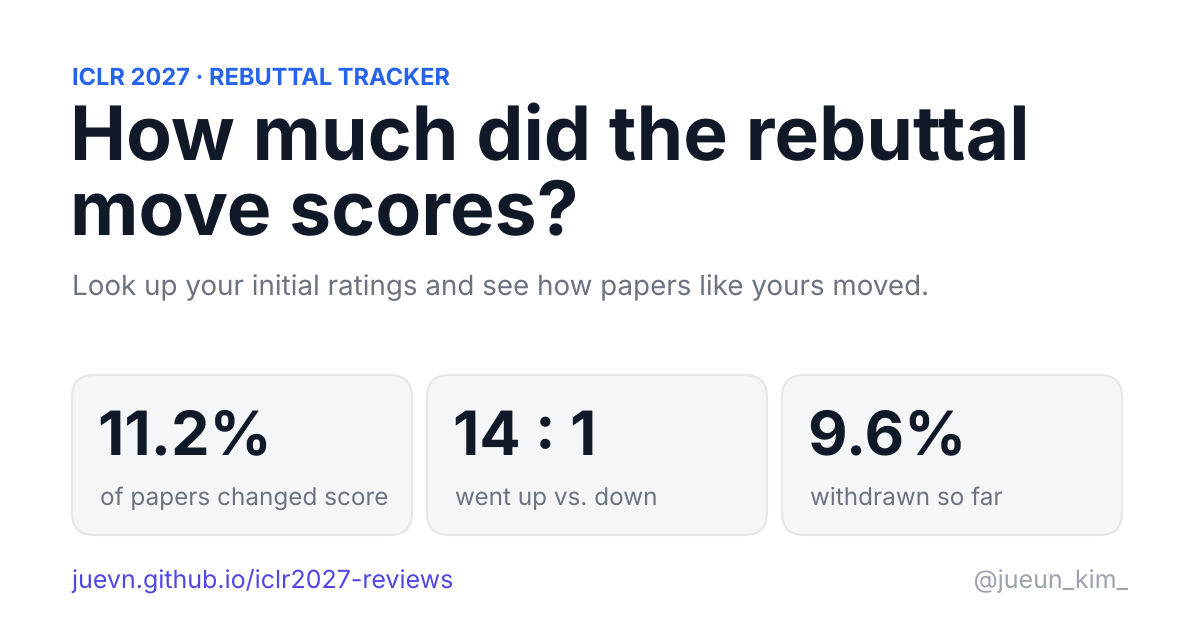
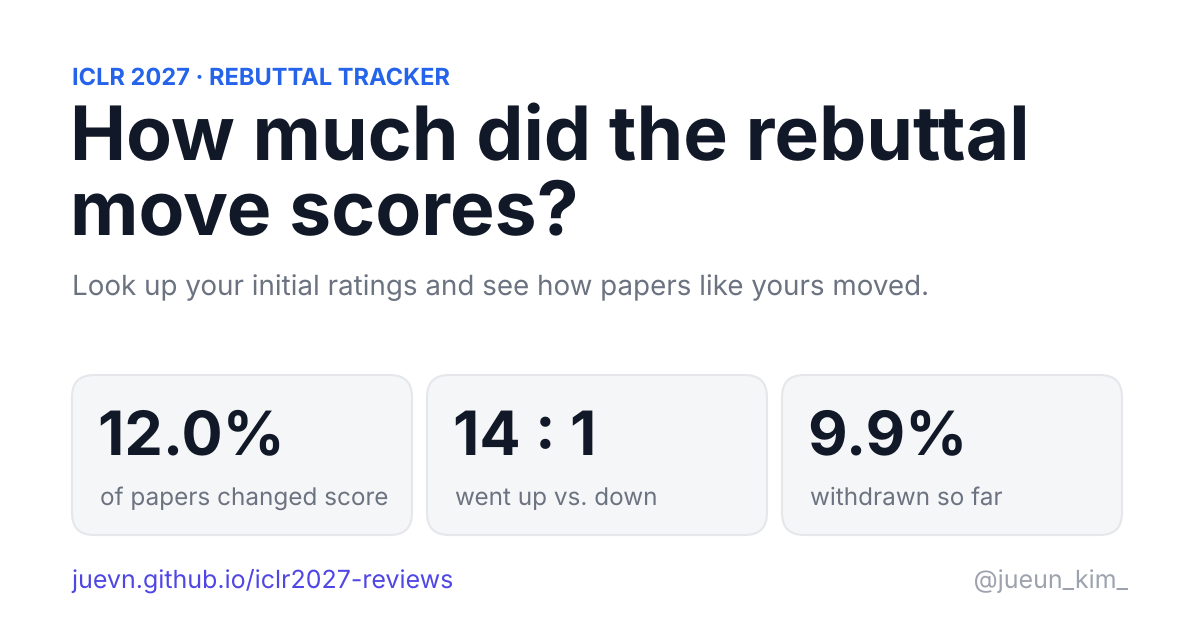
Update to 2026-11-17T03:11:24Z

Changed region(s): [[0.0925, 0.6333, 0.2467, 0.7238], [0.7092, 0.6635, 0.8017, 0.7238]]

diff --git a/data.js b/data.js
@@ -5,34 +5,34 @@ window.ICLR_DATA = {
   venue: "ICLR 2027",
   scale: [1,4],
   baseline: {"at":"2026-11-06T13:54:47Z","source":"https://shiqiangw.github.io/iclr-2027-scores/","by":"shiqiangw"},
-  updated: "2026-11-16T23:10:22Z",
+  updated: "2026-11-17T03:11:24Z",
   discussionEnds: "2026-11-18",
   decisions: "2026-12-16",
   combos: {
-    "1":[2,0,0,0,0,0,0,0],"2":[2,0,0,0,0,0,0,0],"11":[27,9,0,13,0,0,0,0],"21":[73,11,0,33,0,0,0,0],"22":[104,2,0,62,4,0,0,4],"31":[24,0,0,13,1,0,0,1],
+    "1":[2,0,0,0,0,0,0,0],"2":[2,0,0,0,0,0,0,0],"11":[27,9,0,13,0,0,0,0],"21":[73,12,0,32,0,0,0,0],"22":[104,2,0,62,4,0,0,4],"31":[24,0,0,13,1,0,0,1],
     "32":[75,0,0,34,4,1,0,3],"33":[20,0,0,15,0,0,0,0],"41":[1,0,0,1,0,0,0,0],"42":[5,0,0,3,1,0,0,1],"43":[2,0,0,1,0,0,0,0],"44":[1,0,0,1,0,0,0,0],
-    "111":[764,209,0,553,4,0,0,5],"211":[3062,751,1,2298,58,10,0,57],"221":[6602,1381,4,5198,300,26,0,330],"222":[7463,725,1,6718,638,30,4,696],"311":[651,106,1,539,19,17,1,0],"321":[3548,267,0,3270,348,36,2,376],
-    "322":[7667,79,2,7561,938,56,2,1003],"331":[675,3,0,669,93,7,0,107],"332":[3733,6,1,3712,627,38,3,633],"333":[773,0,0,769,74,1,0,82],"411":[30,2,0,28,3,1,0,2],"421":[215,5,1,209,26,4,0,22],
-    "422":[418,0,0,418,62,11,0,61],"431":[79,0,0,77,7,1,0,12],"432":[515,1,0,513,91,5,0,90],"433":[198,0,0,195,15,0,0,16],"441":[6,0,0,6,2,0,0,3],"442":[40,0,0,39,13,0,1,16],
-    "443":[28,0,0,28,1,0,0,1],"444":[2,0,0,2,0,0,0,0],"1111":[29,4,1,24,0,0,0,0],"2111":[107,26,0,79,1,0,0,1],"2211":[245,60,0,185,5,1,0,5],"2221":[428,69,0,353,22,1,0,26],
-    "2222":[455,59,1,394,46,0,1,49],"3111":[17,4,0,13,0,0,0,0],"3211":[111,13,0,97,4,3,0,2],"3221":[336,27,0,309,33,6,0,39],"3222":[565,24,0,538,88,1,0,98],"3311":[28,3,0,25,1,0,1,1],
-    "3321":[133,2,0,131,26,1,0,30],"3322":[435,2,0,426,83,8,0,91],"3331":[27,0,0,27,5,2,0,3],"3332":[156,0,0,155,39,0,0,41],"3333":[17,0,0,17,1,1,0,0],"4111":[1,0,0,1,0,0,0,0],
-    "4211":[8,0,0,8,1,0,0,2],"4221":[25,0,0,25,3,0,0,7],"4222":[40,0,0,40,8,0,0,9],"4311":[1,0,0,1,0,0,0,0],"4321":[28,0,0,28,0,2,0,-3],"4322":[51,0,0,51,11,1,0,11],
-    "4331":[8,0,0,8,1,0,0,1],"4332":[38,0,0,38,6,1,1,4],"4333":[7,0,0,7,0,0,0,0],"4421":[1,0,0,1,0,0,0,0],"4422":[3,0,0,3,1,0,0,1],"4431":[2,0,0,2,1,0,0,3],
+    "111":[764,211,0,551,4,0,0,5],"211":[3062,767,1,2282,62,12,0,59],"221":[6602,1416,4,5163,327,28,0,365],"222":[7463,753,1,6690,677,32,5,741],"311":[651,108,1,537,21,17,1,2],"321":[3548,272,0,3265,369,40,2,399],
+    "322":[7667,84,2,7556,1036,57,2,1127],"331":[675,3,0,669,97,6,1,112],"332":[3733,6,1,3712,660,42,3,664],"333":[773,0,0,769,78,1,0,85],"411":[30,2,0,28,3,1,0,2],"421":[215,5,1,209,27,4,0,23],
+    "422":[418,0,0,418,65,11,0,67],"431":[79,0,0,77,9,1,0,14],"432":[515,1,0,513,98,5,0,97],"433":[198,0,0,195,16,0,0,17],"441":[6,0,0,6,2,0,0,3],"442":[40,0,0,39,14,0,1,17],
+    "443":[28,0,0,28,1,0,0,1],"444":[2,0,0,2,0,0,0,0],"1111":[29,4,1,24,0,0,0,0],"2111":[107,26,0,79,1,0,0,1],"2211":[245,61,0,184,5,1,0,5],"2221":[428,72,0,350,24,1,0,28],
+    "2222":[455,60,1,393,50,0,1,54],"3111":[17,5,0,12,0,1,0,-1],"3211":[111,13,0,97,5,3,0,3],"3221":[336,27,0,309,35,6,0,42],"3222":[565,24,0,538,97,1,0,108],"3311":[28,3,0,25,1,0,1,1],
+    "3321":[133,2,0,131,26,1,0,32],"3322":[435,2,0,426,89,9,0,97],"3331":[27,0,0,27,5,2,0,3],"3332":[156,0,0,155,40,0,0,42],"3333":[17,0,0,17,1,1,0,0],"4111":[1,0,0,1,0,0,0,0],
+    "4211":[8,0,0,8,1,0,0,2],"4221":[25,0,0,25,4,0,0,8],"4222":[40,0,0,40,9,0,0,10],"4311":[1,0,0,1,0,0,0,0],"4321":[28,0,0,28,1,3,0,-4],"4322":[51,0,0,51,11,1,0,12],
+    "4331":[8,0,0,8,1,0,0,1],"4332":[38,0,0,38,7,1,1,5],"4333":[7,0,0,7,0,0,0,0],"4421":[1,0,0,1,0,0,0,0],"4422":[3,0,0,3,1,0,0,1],"4431":[2,0,0,2,1,0,0,3],
     "4432":[3,0,0,3,0,0,0,0],"4433":[4,0,0,4,0,0,0,0],"4443":[1,0,0,1,0,0,0,0],"11111":[4,1,0,3,0,0,0,0],"21111":[6,2,0,4,0,0,0,0],"22111":[14,4,0,10,0,0,0,0],
-    "22211":[22,4,0,18,0,0,0,0],"22221":[32,6,0,26,1,0,0,2],"22222":[19,2,0,17,2,0,0,2],"32111":[8,2,0,6,1,0,0,1],"32211":[21,4,0,17,2,3,0,0],"32221":[29,9,0,20,2,0,0,2],
-    "32222":[37,2,0,35,6,0,0,6],"33211":[2,0,0,2,0,1,0,-1],"33221":[27,0,0,27,7,0,0,12],"33222":[46,1,0,45,12,1,0,15],"33311":[2,0,0,2,0,0,0,0],"33321":[4,0,0,4,1,0,0,1],
-    "33322":[14,0,0,14,4,0,0,5],"33331":[2,0,0,2,0,0,0,0],"33332":[7,0,0,7,2,0,0,3],"33333":[2,0,0,2,0,0,0,0],"42221":[3,0,0,3,0,0,0,0],"42222":[1,0,0,1,0,0,0,0],
+    "22211":[22,4,0,18,0,0,0,0],"22221":[32,6,0,26,1,0,0,2],"22222":[19,2,0,17,2,0,0,2],"32111":[8,2,0,6,1,0,0,1],"32211":[21,4,0,17,2,2,1,1],"32221":[29,9,0,20,2,0,0,2],
+    "32222":[37,3,0,34,6,0,0,6],"33211":[2,0,0,2,0,1,0,-1],"33221":[27,0,0,27,7,0,0,12],"33222":[46,1,0,45,12,0,0,16],"33311":[2,0,0,2,0,0,0,0],"33321":[4,0,0,4,1,0,0,1],
+    "33322":[14,0,0,14,5,0,0,7],"33331":[2,0,0,2,0,0,0,0],"33332":[7,0,0,7,3,0,0,4],"33333":[2,0,0,2,0,0,0,0],"42221":[3,0,0,3,1,0,0,1],"42222":[1,0,0,1,0,0,0,0],
     "43211":[1,0,0,1,0,0,0,0],"43221":[1,0,0,1,0,0,0,0],"43222":[7,0,0,7,1,0,0,1],"43322":[2,0,0,2,1,0,0,1],"43331":[1,0,0,1,0,0,0,0],"43332":[4,0,0,4,1,0,0,2],
-    "43333":[1,0,0,1,0,0,0,0],"44311":[1,0,0,1,0,0,0,0],"44322":[3,0,0,3,0,0,0,0],"44332":[3,0,0,3,1,0,0,1],"211111":[1,1,0,0,0,0,0,0],"221111":[1,0,0,1,0,0,0,0],
+    "43333":[1,0,0,1,0,0,0,0],"44311":[1,0,0,1,0,0,0,0],"44322":[3,0,0,3,1,0,0,1],"44332":[3,0,0,3,1,0,0,1],"211111":[1,1,0,0,0,0,0,0],"221111":[1,0,0,1,0,0,0,0],
     "222211":[2,1,0,1,0,0,0,0],"222221":[2,1,0,1,0,0,0,0],"322211":[1,0,0,1,0,0,0,0],"322221":[1,0,0,1,0,0,0,0],"322222":[3,0,0,3,0,0,0,0],"332222":[2,0,0,2,0,1,0,-1],
     "333222":[1,0,0,1,0,0,0,0],"432211":[1,0,0,1,1,0,0,1],"433321":[1,0,0,1,0,0,0,0],"2222211":[1,0,0,1,0,0,0,0]
   },
   // Mean rating now -> number of papers still under review, for ranking a score against today's field.
-  currentMeans: {"n":36679,"h":{"1.00":609,"1.20":5,"1.25":84,"1.33":2295,"1.40":10,"1.50":244,"1.60":29,"1.67":5537,"1.71":1,"1.75":453,"1.80":43,"1.83":2,"2.00":10180,"2.17":4,"2.20":65,"2.25":681,"2.33":8321,"2.40":50,"2.50":589,"2.60":36,"2.67":4542,"2.75":269,"2.80":13,"3.00":2069,"3.20":6,"3.25":26,"3.33":427,"3.40":2,"3.50":6,"3.67":70,"3.75":2,"4.00":9}},
+  currentMeans: {"n":36578,"h":{"1.00":609,"1.20":5,"1.25":85,"1.33":2275,"1.40":10,"1.50":240,"1.60":28,"1.67":5479,"1.71":1,"1.75":447,"1.80":43,"1.83":2,"2.00":10097,"2.17":4,"2.20":62,"2.25":675,"2.33":8274,"2.40":52,"2.50":589,"2.60":35,"2.67":4589,"2.75":278,"2.80":12,"3.00":2117,"3.20":7,"3.25":28,"3.33":445,"3.40":2,"3.50":6,"3.67":71,"3.75":2,"4.00":9}},
   // Review-level moves. exact: the pairing of initial and current ratings is unique.
   // inferred: more than one pairing fits, smallest-change one used.
-  reviews: {"analyzed":112264,"modified":14168,"changed":4343,"exact":4041,"inferred":302,"initial":{"1":19042,"2":64493,"3":26857,"4":1872},"moves":{"2>3":2816,"1>2":513,"3>4":455,"2>1":149,"2>4":137,"3>2":120,"1>3":111,"4>3":13,"3>1":12,"1>4":11,"4>2":6}},
+  reviews: {"analyzed":111954,"modified":14647,"changed":4679,"exact":4345,"inferred":334,"initial":{"1":18951,"2":64288,"3":26843,"4":1872},"moves":{"2>3":3047,"1>2":545,"3>4":483,"2>1":156,"2>4":150,"3>2":129,"1>3":124,"4>3":14,"3>1":12,"1>4":12,"4>2":7}},
   // dest: initial ratings -> current ratings of the papers that changed (same number of reviews), with counts.
   dest: {
     "22":{"32":4},
@@ -40,67 +40,70 @@ window.ICLR_DATA = {
     "32":{"22":1,"33":4},
     "42":{"43":1},
     "111":{"211":3,"311":1},
-    "211":{"111":10,"221":39,"222":3,"311":12,"321":3,"422":1},
-    "221":{"211":26,"222":134,"321":120,"322":25,"331":9,"332":5,"333":1,"421":4,"422":1,"432":1},
-    "222":{"211":1,"221":29,"321":4,"322":555,"331":1,"332":62,"333":5,"422":13,"432":2},
-    "311":{"111":3,"211":14,"221":1,"321":17,"322":1,"411":1},
-    "321":{"211":1,"221":24,"222":2,"311":11,"322":176,"331":103,"332":29,"333":9,"421":20,"422":2,"431":4,"432":3,"433":2},
-    "322":{"211":1,"221":2,"222":27,"321":26,"331":2,"332":730,"333":79,"422":91,"431":1,"432":29,"433":7,"443":1},
-    "331":{"311":1,"321":6,"332":52,"333":17,"431":20,"432":3,"433":1},
-    "332":{"222":1,"321":3,"322":19,"331":15,"333":444,"422":1,"431":2,"432":137,"433":38,"441":1,"442":4,"443":3},
-    "333":{"332":1,"433":66,"443":7,"444":1},
+    "211":{"111":12,"221":42,"222":3,"311":13,"321":3,"422":1},
+    "221":{"211":28,"222":144,"321":128,"322":31,"331":11,"332":6,"333":1,"421":4,"422":1,"432":1},
+    "222":{"211":1,"221":31,"321":5,"322":588,"331":1,"332":66,"333":6,"422":13,"432":3},
+    "311":{"111":3,"211":14,"221":1,"321":19,"322":1,"411":1},
+    "321":{"211":1,"221":28,"222":2,"311":11,"322":185,"331":108,"332":33,"333":9,"421":22,"422":2,"431":4,"432":4,"433":2},
+    "322":{"211":1,"221":2,"222":28,"321":26,"331":2,"332":792,"333":95,"422":103,"431":1,"432":34,"433":10,"443":1},
+    "331":{"311":1,"321":5,"332":55,"333":17,"421":1,"431":21,"432":3,"433":1},
+    "332":{"222":1,"321":3,"322":22,"331":16,"333":468,"422":1,"431":2,"432":144,"433":40,"441":1,"442":4,"443":3},
+    "333":{"332":1,"433":71,"443":6,"444":1},
     "411":{"211":1,"421":2,"422":1},
-    "421":{"221":1,"321":3,"422":17,"431":8,"432":1},
-    "422":{"222":1,"322":5,"421":5,"432":52,"433":7,"442":2,"443":1},
-    "431":{"331":1,"432":1,"433":4,"441":1,"443":1},
-    "432":{"322":1,"422":1,"431":3,"433":67,"442":19,"443":5},
-    "433":{"443":14,"444":1},
+    "421":{"221":1,"321":3,"422":17,"431":9,"432":1},
+    "422":{"222":1,"322":6,"421":4,"432":52,"433":10,"442":2,"443":1},
+    "431":{"331":1,"432":2,"433":4,"441":2,"443":1},
+    "432":{"322":1,"422":1,"431":3,"433":74,"442":19,"443":5},
+    "433":{"443":15,"444":1},
     "441":{"442":1,"443":1},
-    "442":{"433":1,"443":10,"444":3},
+    "442":{"433":1,"443":11,"444":3},
     "443":{"444":1},
     "2111":{"2211":1},
     "2211":{"2111":1,"2221":2,"2222":1,"3211":2},
-    "2221":{"2211":1,"2222":7,"3221":11,"3321":3,"4222":1},
-    "2222":{"3221":1,"3222":43,"3322":1,"4222":2},
-    "3211":{"2211":3,"3221":3,"3321":1},
-    "3221":{"2221":4,"3211":2,"3222":10,"3321":12,"3322":6,"3331":2,"3332":1,"4321":2},
-    "3222":{"3221":1,"3322":70,"3332":6,"4222":8,"4322":3,"4332":1},
+    "2221":{"2211":1,"2222":7,"3221":13,"3321":3,"4222":1},
+    "2222":{"3221":1,"3222":46,"3322":2,"4222":2},
+    "3111":{"2111":1},
+    "3211":{"2211":3,"3221":4,"3321":1},
+    "3221":{"2221":4,"3211":2,"3222":10,"3321":13,"3322":7,"3331":2,"3332":1,"4321":2},
+    "3222":{"3221":1,"3322":77,"3332":7,"4222":9,"4322":3,"4332":1},
     "3311":{"3221":1,"4311":1},
-    "3321":{"3221":1,"3322":12,"3331":9,"3332":1,"3333":1,"4321":2,"4332":1},
-    "3322":{"3222":7,"3321":1,"3332":55,"3333":9,"4322":14,"4332":2,"4333":2,"4422":1},
+    "3321":{"3221":1,"3322":12,"3331":8,"3332":1,"3333":2,"4321":2,"4332":1},
+    "3322":{"3222":7,"3321":2,"3332":60,"3333":9,"4322":14,"4332":3,"4333":2,"4422":1},
     "3331":{"3311":1,"3321":1,"3332":4,"4332":1},
-    "3332":{"3333":29,"4332":8,"4333":2},
+    "3332":{"3333":30,"4332":8,"4333":2},
     "3333":{"3332":1,"4333":1},
     "4211":{"4321":1},
-    "4221":{"4222":1,"4422":1,"4431":1},
-    "4222":{"4322":7,"4332":1},
-    "4321":{"3221":1,"3321":1},
-    "4322":{"3322":1,"4332":9,"4333":1,"4422":1},
+    "4221":{"4222":1,"4321":1,"4422":1,"4431":1},
+    "4222":{"4322":8,"4332":1},
+    "4321":{"3221":2,"3321":1,"4322":1},
+    "4322":{"3322":1,"4332":8,"4333":2,"4422":1},
     "4331":{"4431":1},
-    "4332":{"3322":1,"3333":1,"4333":6},
+    "4332":{"3322":1,"3333":1,"4333":7},
     "4422":{"4432":1},
     "4431":{"4443":1},
     "22221":{"42221":1},
     "22222":{"32222":2},
     "32111":{"32211":1},
-    "32211":{"22211":3,"32221":1,"33221":1},
+    "32211":{"22211":2,"22221":1,"32221":1,"33221":1},
     "32221":{"32222":1,"33221":1},
     "32222":{"33222":6},
     "33211":{"33111":1},
     "33221":{"33222":2,"33321":3,"33331":1,"44431":1},
-    "33222":{"33221":1,"33322":9,"33332":1,"43222":1,"43333":1},
+    "33222":{"33322":9,"33332":1,"43222":1,"43333":1},
     "33321":{"33322":1},
-    "33322":{"33332":2,"33333":1,"43322":1},
-    "33332":{"33333":1,"43333":1},
+    "33322":{"33332":3,"33333":1,"43332":1},
+    "33332":{"33333":2,"43333":1},
+    "42221":{"42222":1},
     "43222":{"43322":1},
     "43322":{"43332":1},
     "43332":{"44432":1},
+    "44322":{"44332":1},
     "44332":{"44432":1},
     "332222":{"332221":1},
     "432211":{"432221":1}
   },
   // moveTimes: changed reviews per move, by 3-hour UTC bucket of the review's last edit (a later text-only edit moves it).
-  moveTimes: {"2>3":{"2026-11-06T15":1,"2026-11-06T18":1,"2026-11-07T03":1,"2026-11-07T18":1,"2026-11-08T03":1,"2026-11-08T12":1,"2026-11-08T15":1,"2026-11-09T03":2,"2026-11-09T15":2,"2026-11-09T18":1,"2026-11-09T21":2,"2026-11-10T03":1,"2026-11-10T06":3,"2026-11-10T09":1,"2026-11-10T12":1,"2026-11-10T18":3,"2026-11-10T21":2,"2026-11-11T00":4,"2026-11-11T03":1,"2026-11-11T06":3,"2026-11-11T09":6,"2026-11-11T12":2,"2026-11-11T15":4,"2026-11-11T18":3,"2026-11-11T21":2,"2026-11-12T00":8,"2026-11-12T03":9,"2026-11-12T06":10,"2026-11-12T09":9,"2026-11-12T12":9,"2026-11-12T15":13,"2026-11-12T18":9,"2026-11-12T21":5,"2026-11-13T00":7,"2026-11-13T03":22,"2026-11-13T06":24,"2026-11-13T09":31,"2026-11-13T12":17,"2026-11-13T15":18,"2026-11-13T18":27,"2026-11-13T21":30,"2026-11-14T00":15,"2026-11-14T03":85,"2026-11-14T06":134,"2026-11-14T09":64,"2026-11-14T12":78,"2026-11-14T15":60,"2026-11-14T18":44,"2026-11-14T21":35,"2026-11-15T00":59,"2026-11-15T03":64,"2026-11-15T06":109,"2026-11-15T09":89,"2026-11-15T12":88,"2026-11-15T15":96,"2026-11-15T18":41,"2026-11-15T21":46,"2026-11-16T00":122,"2026-11-16T03":198,"2026-11-16T06":251,"2026-11-16T09":216,"2026-11-16T12":223,"2026-11-16T15":198,"2026-11-16T18":127,"2026-11-16T21":76},"1>2":{"2026-11-07T12":1,"2026-11-07T15":1,"2026-11-07T18":1,"2026-11-08T00":1,"2026-11-08T06":1,"2026-11-08T18":1,"2026-11-09T00":1,"2026-11-09T03":1,"2026-11-09T06":2,"2026-11-10T00":1,"2026-11-10T12":4,"2026-11-10T15":1,"2026-11-10T18":2,"2026-11-11T00":1,"2026-11-11T03":1,"2026-11-11T06":1,"2026-11-11T12":1,"2026-11-11T18":2,"2026-11-11T21":1,"2026-11-12T03":2,"2026-11-12T06":2,"2026-11-12T09":1,"2026-11-12T12":4,"2026-11-12T15":2,"2026-11-12T18":1,"2026-11-12T21":2,"2026-11-13T00":1,"2026-11-13T03":8,"2026-11-13T06":5,"2026-11-13T09":7,"2026-11-13T12":6,"2026-11-13T15":5,"2026-11-13T18":5,"2026-11-13T21":5,"2026-11-14T00":3,"2026-11-14T03":21,"2026-11-14T06":15,"2026-11-14T09":21,"2026-11-14T12":14,"2026-11-14T15":13,"2026-11-14T18":12,"2026-11-14T21":4,"2026-11-15T00":8,"2026-11-15T03":14,"2026-11-15T06":10,"2026-11-15T09":17,"2026-11-15T12":14,"2026-11-15T15":11,"2026-11-15T18":14,"2026-11-15T21":11,"2026-11-16T00":19,"2026-11-16T03":27,"2026-11-16T06":29,"2026-11-16T09":31,"2026-11-16T12":43,"2026-11-16T15":35,"2026-11-16T18":32,"2026-11-16T21":14},"3>4":{"2026-11-06T15":1,"2026-11-07T21":1,"2026-11-08T12":1,"2026-11-08T21":1,"2026-11-09T06":1,"2026-11-09T09":1,"2026-11-09T12":1,"2026-11-10T03":1,"2026-11-10T06":1,"2026-11-10T09":1,"2026-11-10T12":2,"2026-11-11T12":2,"2026-11-11T15":1,"2026-11-11T18":1,"2026-11-11T21":2,"2026-11-12T03":1,"2026-11-12T06":1,"2026-11-12T12":3,"2026-11-12T15":2,"2026-11-12T18":3,"2026-11-12T21":4,"2026-11-13T00":1,"2026-11-13T03":5,"2026-11-13T06":10,"2026-11-13T09":7,"2026-11-13T12":5,"2026-11-13T15":3,"2026-11-13T18":3,"2026-11-13T21":6,"2026-11-14T00":4,"2026-11-14T03":15,"2026-11-14T06":17,"2026-11-14T09":9,"2026-11-14T12":21,"2026-11-14T15":9,"2026-11-14T18":8,"2026-11-14T21":2,"2026-11-15T00":8,"2026-11-15T03":11,"2026-11-15T06":13,"2026-11-15T09":16,"2026-11-15T12":18,"2026-11-15T15":11,"2026-11-15T18":10,"2026-11-15T21":4,"2026-11-16T00":23,"2026-11-16T03":30,"2026-11-16T06":33,"2026-11-16T09":32,"2026-11-16T12":28,"2026-11-16T15":22,"2026-11-16T18":26,"2026-11-16T21":13},"2>1":{"2026-11-06T12":2,"2026-11-06T15":3,"2026-11-06T18":2,"2026-11-07T00":1,"2026-11-07T03":4,"2026-11-07T06":2,"2026-11-07T09":1,"2026-11-07T12":1,"2026-11-08T15":1,"2026-11-09T03":1,"2026-11-09T06":1,"2026-11-09T09":1,"2026-11-09T18":1,"2026-11-10T18":3,"2026-11-11T09":1,"2026-11-11T12":1,"2026-11-12T00":1,"2026-11-12T03":2,"2026-11-12T12":3,"2026-11-12T15":2,"2026-11-13T03":1,"2026-11-13T06":3,"2026-11-13T09":3,"2026-11-13T15":2,"2026-11-13T21":3,"2026-11-14T03":9,"2026-11-14T06":6,"2026-11-14T09":4,"2026-11-14T12":1,"2026-11-14T15":5,"2026-11-14T18":4,"2026-11-15T00":1,"2026-11-15T03":1,"2026-11-15T06":7,"2026-11-15T09":5,"2026-11-15T12":3,"2026-11-15T15":4,"2026-11-15T18":5,"2026-11-16T00":4,"2026-11-16T03":9,"2026-11-16T06":9,"2026-11-16T09":3,"2026-11-16T12":7,"2026-11-16T15":5,"2026-11-16T18":10,"2026-11-16T21":1},"2>4":{"2026-11-07T03":4,"2026-11-08T15":1,"2026-11-09T09":1,"2026-11-10T09":2,"2026-11-10T18":1,"2026-11-11T09":1,"2026-11-12T03":1,"2026-11-12T12":2,"2026-11-12T15":2,"2026-11-12T18":1,"2026-11-13T03":3,"2026-11-13T09":3,"2026-11-13T12":2,"2026-11-13T15":3,"2026-11-13T18":1,"2026-11-13T21":3,"2026-11-14T00":2,"2026-11-14T03":4,"2026-11-14T06":9,"2026-11-14T09":1,"2026-11-14T12":1,"2026-11-14T15":9,"2026-11-14T18":3,"2026-11-14T21":2,"2026-11-15T00":3,"2026-11-15T03":5,"2026-11-15T06":4,"2026-11-15T09":5,"2026-11-15T12":4,"2026-11-15T15":1,"2026-11-15T18":3,"2026-11-15T21":2,"2026-11-16T00":4,"2026-11-16T03":4,"2026-11-16T06":9,"2026-11-16T09":6,"2026-11-16T12":6,"2026-11-16T15":7,"2026-11-16T18":8,"2026-11-16T21":4},"3>2":{"2026-11-06T12":2,"2026-11-06T15":3,"2026-11-06T18":2,"2026-11-06T21":1,"2026-11-07T00":1,"2026-11-07T03":4,"2026-11-07T06":2,"2026-11-07T09":1,"2026-11-08T03":1,"2026-11-08T15":1,"2026-11-09T03":1,"2026-11-09T06":1,"2026-11-09T15":1,"2026-11-10T06":1,"2026-11-11T09":1,"2026-11-11T12":2,"2026-11-12T00":2,"2026-11-12T03":1,"2026-11-12T09":2,"2026-11-13T03":2,"2026-11-13T06":2,"2026-11-13T09":2,"2026-11-13T18":1,"2026-11-14T03":4,"2026-11-14T06":6,"2026-11-14T09":2,"2026-11-14T12":2,"2026-11-14T15":3,"2026-11-14T18":4,"2026-11-15T00":1,"2026-11-15T03":3,"2026-11-15T06":5,"2026-11-15T09":3,"2026-11-15T12":2,"2026-11-15T15":4,"2026-11-15T18":2,"2026-11-16T00":4,"2026-11-16T03":6,"2026-11-16T06":11,"2026-11-16T09":1,"2026-11-16T12":5,"2026-11-16T15":5,"2026-11-16T18":5,"2026-11-16T21":5},"1>3":{"2026-11-07T03":1,"2026-11-12T00":1,"2026-11-12T03":1,"2026-11-12T06":1,"2026-11-12T15":2,"2026-11-12T18":3,"2026-11-12T21":1,"2026-11-13T00":1,"2026-11-13T03":1,"2026-11-13T06":1,"2026-11-13T09":2,"2026-11-13T12":3,"2026-11-13T15":2,"2026-11-13T18":2,"2026-11-13T21":3,"2026-11-14T03":1,"2026-11-14T06":7,"2026-11-14T09":2,"2026-11-14T15":6,"2026-11-14T18":6,"2026-11-14T21":1,"2026-11-15T00":5,"2026-11-15T06":3,"2026-11-15T09":2,"2026-11-15T12":4,"2026-11-15T15":3,"2026-11-15T18":4,"2026-11-15T21":6,"2026-11-16T00":2,"2026-11-16T03":5,"2026-11-16T06":7,"2026-11-16T09":2,"2026-11-16T12":6,"2026-11-16T15":4,"2026-11-16T18":5,"2026-11-16T21":5},"4>3":{"2026-11-06T12":2,"2026-11-07T15":1,"2026-11-11T06":1,"2026-11-11T12":1,"2026-11-13T06":1,"2026-11-13T09":1,"2026-11-14T06":1,"2026-11-14T18":1,"2026-11-15T21":1,"2026-11-16T00":1,"2026-11-16T06":1,"2026-11-16T15":1},"3>1":{"2026-11-07T03":1,"2026-11-08T09":1,"2026-11-11T00":1,"2026-11-14T03":1,"2026-11-14T06":1,"2026-11-15T09":1,"2026-11-15T21":1,"2026-11-16T00":1,"2026-11-16T06":2,"2026-11-16T15":2},"1>4":{"2026-11-13T09":1,"2026-11-13T15":1,"2026-11-14T06":1,"2026-11-15T00":1,"2026-11-15T12":2,"2026-11-16T09":2,"2026-11-16T15":2,"2026-11-16T18":1},"4>2":{"2026-11-06T12":1,"2026-11-13T06":1,"2026-11-14T06":1,"2026-11-16T12":2,"2026-11-16T15":1}},
+  moveTimes: {"2>3":{"2026-11-06T15":1,"2026-11-06T18":1,"2026-11-07T03":1,"2026-11-07T18":1,"2026-11-08T03":1,"2026-11-08T12":1,"2026-11-08T15":1,"2026-11-09T03":2,"2026-11-09T15":2,"2026-11-09T18":1,"2026-11-09T21":2,"2026-11-10T03":1,"2026-11-10T06":3,"2026-11-10T09":1,"2026-11-10T12":1,"2026-11-10T18":3,"2026-11-10T21":2,"2026-11-11T00":4,"2026-11-11T03":1,"2026-11-11T06":3,"2026-11-11T09":6,"2026-11-11T12":2,"2026-11-11T15":4,"2026-11-11T18":3,"2026-11-11T21":2,"2026-11-12T00":8,"2026-11-12T03":9,"2026-11-12T06":10,"2026-11-12T09":9,"2026-11-12T12":9,"2026-11-12T15":13,"2026-11-12T18":9,"2026-11-12T21":5,"2026-11-13T00":7,"2026-11-13T03":22,"2026-11-13T06":24,"2026-11-13T09":31,"2026-11-13T12":17,"2026-11-13T15":18,"2026-11-13T18":26,"2026-11-13T21":30,"2026-11-14T00":15,"2026-11-14T03":85,"2026-11-14T06":134,"2026-11-14T09":64,"2026-11-14T12":77,"2026-11-14T15":60,"2026-11-14T18":44,"2026-11-14T21":35,"2026-11-15T00":59,"2026-11-15T03":65,"2026-11-15T06":109,"2026-11-15T09":89,"2026-11-15T12":88,"2026-11-15T15":96,"2026-11-15T18":40,"2026-11-15T21":44,"2026-11-16T00":124,"2026-11-16T03":199,"2026-11-16T06":249,"2026-11-16T09":214,"2026-11-16T12":223,"2026-11-16T15":197,"2026-11-16T18":126,"2026-11-16T21":99,"2026-11-17T00":195,"2026-11-17T03":20},"1>2":{"2026-11-07T12":1,"2026-11-07T15":1,"2026-11-07T18":1,"2026-11-08T00":1,"2026-11-08T06":1,"2026-11-08T18":1,"2026-11-09T00":1,"2026-11-09T03":1,"2026-11-09T06":2,"2026-11-10T00":1,"2026-11-10T12":4,"2026-11-10T15":1,"2026-11-10T18":2,"2026-11-11T00":1,"2026-11-11T03":1,"2026-11-11T06":1,"2026-11-11T12":1,"2026-11-11T18":2,"2026-11-11T21":1,"2026-11-12T03":2,"2026-11-12T06":2,"2026-11-12T09":1,"2026-11-12T12":4,"2026-11-12T15":2,"2026-11-12T18":1,"2026-11-12T21":2,"2026-11-13T00":1,"2026-11-13T03":8,"2026-11-13T06":5,"2026-11-13T09":7,"2026-11-13T12":6,"2026-11-13T15":5,"2026-11-13T18":5,"2026-11-13T21":5,"2026-11-14T00":3,"2026-11-14T03":21,"2026-11-14T06":15,"2026-11-14T09":21,"2026-11-14T12":13,"2026-11-14T15":13,"2026-11-14T18":12,"2026-11-14T21":4,"2026-11-15T00":8,"2026-11-15T03":12,"2026-11-15T06":10,"2026-11-15T09":17,"2026-11-15T12":14,"2026-11-15T15":11,"2026-11-15T18":14,"2026-11-15T21":11,"2026-11-16T00":18,"2026-11-16T03":27,"2026-11-16T06":29,"2026-11-16T09":32,"2026-11-16T12":43,"2026-11-16T15":35,"2026-11-16T18":31,"2026-11-16T21":20,"2026-11-17T00":27,"2026-11-17T03":3},"3>4":{"2026-11-06T15":1,"2026-11-07T21":1,"2026-11-08T12":1,"2026-11-08T21":1,"2026-11-09T06":1,"2026-11-09T09":1,"2026-11-09T12":1,"2026-11-10T03":1,"2026-11-10T06":1,"2026-11-10T09":1,"2026-11-10T12":2,"2026-11-11T12":2,"2026-11-11T15":1,"2026-11-11T18":1,"2026-11-11T21":2,"2026-11-12T03":1,"2026-11-12T06":1,"2026-11-12T12":3,"2026-11-12T15":2,"2026-11-12T18":3,"2026-11-12T21":4,"2026-11-13T00":1,"2026-11-13T03":5,"2026-11-13T06":10,"2026-11-13T09":7,"2026-11-13T12":5,"2026-11-13T15":3,"2026-11-13T18":3,"2026-11-13T21":6,"2026-11-14T00":4,"2026-11-14T03":15,"2026-11-14T06":17,"2026-11-14T09":9,"2026-11-14T12":21,"2026-11-14T15":9,"2026-11-14T18":8,"2026-11-14T21":2,"2026-11-15T00":8,"2026-11-15T03":11,"2026-11-15T06":12,"2026-11-15T09":16,"2026-11-15T12":18,"2026-11-15T15":11,"2026-11-15T18":10,"2026-11-15T21":4,"2026-11-16T00":23,"2026-11-16T03":30,"2026-11-16T06":31,"2026-11-16T09":32,"2026-11-16T12":26,"2026-11-16T15":22,"2026-11-16T18":26,"2026-11-16T21":15,"2026-11-17T00":29,"2026-11-17T03":2},"2>1":{"2026-11-06T12":2,"2026-11-06T15":3,"2026-11-06T18":2,"2026-11-07T00":1,"2026-11-07T03":4,"2026-11-07T06":2,"2026-11-07T09":1,"2026-11-07T12":1,"2026-11-08T15":1,"2026-11-09T03":1,"2026-11-09T06":1,"2026-11-09T09":1,"2026-11-09T18":1,"2026-11-10T18":3,"2026-11-11T09":1,"2026-11-11T12":1,"2026-11-12T00":1,"2026-11-12T03":2,"2026-11-12T12":3,"2026-11-12T15":1,"2026-11-13T03":1,"2026-11-13T06":3,"2026-11-13T09":3,"2026-11-13T15":2,"2026-11-13T21":3,"2026-11-14T03":9,"2026-11-14T06":6,"2026-11-14T09":4,"2026-11-14T12":1,"2026-11-14T15":5,"2026-11-14T18":4,"2026-11-15T00":1,"2026-11-15T03":1,"2026-11-15T06":7,"2026-11-15T09":3,"2026-11-15T12":3,"2026-11-15T15":4,"2026-11-15T18":5,"2026-11-16T00":3,"2026-11-16T03":9,"2026-11-16T06":9,"2026-11-16T09":3,"2026-11-16T12":6,"2026-11-16T15":5,"2026-11-16T18":10,"2026-11-16T21":1,"2026-11-17T00":10,"2026-11-17T03":2},"2>4":{"2026-11-07T03":4,"2026-11-08T15":1,"2026-11-09T09":1,"2026-11-10T09":2,"2026-11-10T18":1,"2026-11-11T09":1,"2026-11-12T03":1,"2026-11-12T12":2,"2026-11-12T15":2,"2026-11-12T18":1,"2026-11-13T03":3,"2026-11-13T09":3,"2026-11-13T12":2,"2026-11-13T15":3,"2026-11-13T18":1,"2026-11-13T21":3,"2026-11-14T00":2,"2026-11-14T03":4,"2026-11-14T06":9,"2026-11-14T09":1,"2026-11-14T12":1,"2026-11-14T15":9,"2026-11-14T18":3,"2026-11-14T21":2,"2026-11-15T00":3,"2026-11-15T03":5,"2026-11-15T06":5,"2026-11-15T09":5,"2026-11-15T12":4,"2026-11-15T15":1,"2026-11-15T18":3,"2026-11-15T21":2,"2026-11-16T00":4,"2026-11-16T03":4,"2026-11-16T06":10,"2026-11-16T09":6,"2026-11-16T12":8,"2026-11-16T15":7,"2026-11-16T18":8,"2026-11-16T21":5,"2026-11-17T00":8},"3>2":{"2026-11-06T12":2,"2026-11-06T15":3,"2026-11-06T18":2,"2026-11-06T21":1,"2026-11-07T00":1,"2026-11-07T03":4,"2026-11-07T06":1,"2026-11-07T09":1,"2026-11-08T03":1,"2026-11-08T15":1,"2026-11-09T03":1,"2026-11-09T06":1,"2026-11-09T15":1,"2026-11-10T06":1,"2026-11-11T09":1,"2026-11-11T12":2,"2026-11-12T00":2,"2026-11-12T03":1,"2026-11-12T09":2,"2026-11-13T03":2,"2026-11-13T06":2,"2026-11-13T09":2,"2026-11-13T18":1,"2026-11-14T03":4,"2026-11-14T06":6,"2026-11-14T09":2,"2026-11-14T12":2,"2026-11-14T15":3,"2026-11-14T18":4,"2026-11-15T00":1,"2026-11-15T03":3,"2026-11-15T06":5,"2026-11-15T09":3,"2026-11-15T12":1,"2026-11-15T15":4,"2026-11-15T18":2,"2026-11-16T00":4,"2026-11-16T03":6,"2026-11-16T06":10,"2026-11-16T09":1,"2026-11-16T12":5,"2026-11-16T15":5,"2026-11-16T18":5,"2026-11-16T21":5,"2026-11-17T00":12},"1>3":{"2026-11-07T03":1,"2026-11-12T00":1,"2026-11-12T03":1,"2026-11-12T06":1,"2026-11-12T15":2,"2026-11-12T18":3,"2026-11-12T21":1,"2026-11-13T00":1,"2026-11-13T03":1,"2026-11-13T06":1,"2026-11-13T09":2,"2026-11-13T12":3,"2026-11-13T15":2,"2026-11-13T18":2,"2026-11-13T21":3,"2026-11-14T03":1,"2026-11-14T06":7,"2026-11-14T09":2,"2026-11-14T15":6,"2026-11-14T18":6,"2026-11-14T21":1,"2026-11-15T00":5,"2026-11-15T06":4,"2026-11-15T09":2,"2026-11-15T12":4,"2026-11-15T15":3,"2026-11-15T18":5,"2026-11-15T21":7,"2026-11-16T00":2,"2026-11-16T03":5,"2026-11-16T06":8,"2026-11-16T09":3,"2026-11-16T12":6,"2026-11-16T15":4,"2026-11-16T18":5,"2026-11-16T21":5,"2026-11-17T00":7,"2026-11-17T03":1},"4>3":{"2026-11-06T12":2,"2026-11-07T15":1,"2026-11-11T06":1,"2026-11-11T12":1,"2026-11-13T06":1,"2026-11-13T09":1,"2026-11-14T06":1,"2026-11-14T18":1,"2026-11-15T21":1,"2026-11-16T00":1,"2026-11-16T06":1,"2026-11-16T15":1,"2026-11-17T00":1},"3>1":{"2026-11-07T03":1,"2026-11-08T09":1,"2026-11-11T00":1,"2026-11-14T03":1,"2026-11-14T06":1,"2026-11-15T09":1,"2026-11-15T21":1,"2026-11-16T00":1,"2026-11-16T06":2,"2026-11-16T15":2},"1>4":{"2026-11-13T09":1,"2026-11-13T15":1,"2026-11-14T06":1,"2026-11-15T00":1,"2026-11-15T12":2,"2026-11-16T09":2,"2026-11-16T15":2,"2026-11-16T18":1,"2026-11-17T00":1},"4>2":{"2026-11-06T12":1,"2026-11-13T06":1,"2026-11-14T06":1,"2026-11-16T12":2,"2026-11-16T15":1,"2026-11-17T00":1}},
   // One row per update: papers still active with the same number of reviews, and how many moved.
   timeline: [
     {"at":"2026-11-06T13:54:47Z","sc":40458,"up":0,"down":0,"mixed":0,"withdrawn":0},
@@ -110,6 +113,7 @@ window.ICLR_DATA = {
     {"at":"2026-11-16T14:59:02Z","sc":36429,"up":3250,"down":254,"mixed":14,"withdrawn":3739},
     {"at":"2026-11-16T16:23:09Z","sc":36394,"up":3384,"down":259,"mixed":16,"withdrawn":3770},
     {"at":"2026-11-16T19:10:13Z","sc":36336,"up":3557,"down":262,"mixed":16,"withdrawn":3828},
-    {"at":"2026-11-16T23:10:22Z","sc":36275,"up":3760,"down":278,"mixed":16,"withdrawn":3890}
+    {"at":"2026-11-16T23:10:22Z","sc":36275,"up":3760,"down":278,"mixed":16,"withdrawn":3890},
+    {"at":"2026-11-17T03:11:24Z","sc":36174,"up":4040,"down":293,"mixed":19,"withdrawn":3991}
   ]
 };

diff --git a/README.md b/README.md
@@ -40,7 +40,7 @@ How much did the ICLR 2027 rebuttal move review scores? Every paper's initial re
 - **Initial scores.** The snapshot taken right after reviews were released (Nov 6, 13:54 UTC), published at [shiqiangw.github.io/iclr-2027-scores](https://shiqiangw.github.io/iclr-2027-scores/) ([repo](https://github.com/shiqiangw/iclr-2027-scores)), about a day after reviews were released.
 - **Current ratings.** The OpenReview API: every ICLR 2027 submission with its official reviews.
 - **Score changes.** A paper's scores now against its initial scores. Only papers still under review with the same number of reviews are counted.
-- **Review-level moves.** Reviews not edited since the snapshot keep their initial rating, which pins down the rest. When several reviews on one paper were edited and more than one pairing fits, edits that kept the rating count as text-only and the rest are paired by smallest change. This applies to 302 of 4,343 changed reviews (7%, as of Nov 17); the rest are pinned down exactly.
+- **Review-level moves.** Reviews not edited since the snapshot keep their initial rating, which pins down the rest. When several reviews on one paper were edited and more than one pairing fits, edits that kept the rating count as text-only and the rest are paired by smallest change. This applies to 334 of 4,679 changed reviews (7%, as of Nov 17); the rest are pinned down exactly.
 - **Privacy.** Only counts are published. No review text, reviewer ids, paper titles or author names.
 
 Made by [Jueun Kim](https://juevn.github.io/) ([@jueun_kim_](https://x.com/jueun_kim_)). Also: [NeurIPS 2026 Explorer](https://juevn.github.io/neurips2026/).
